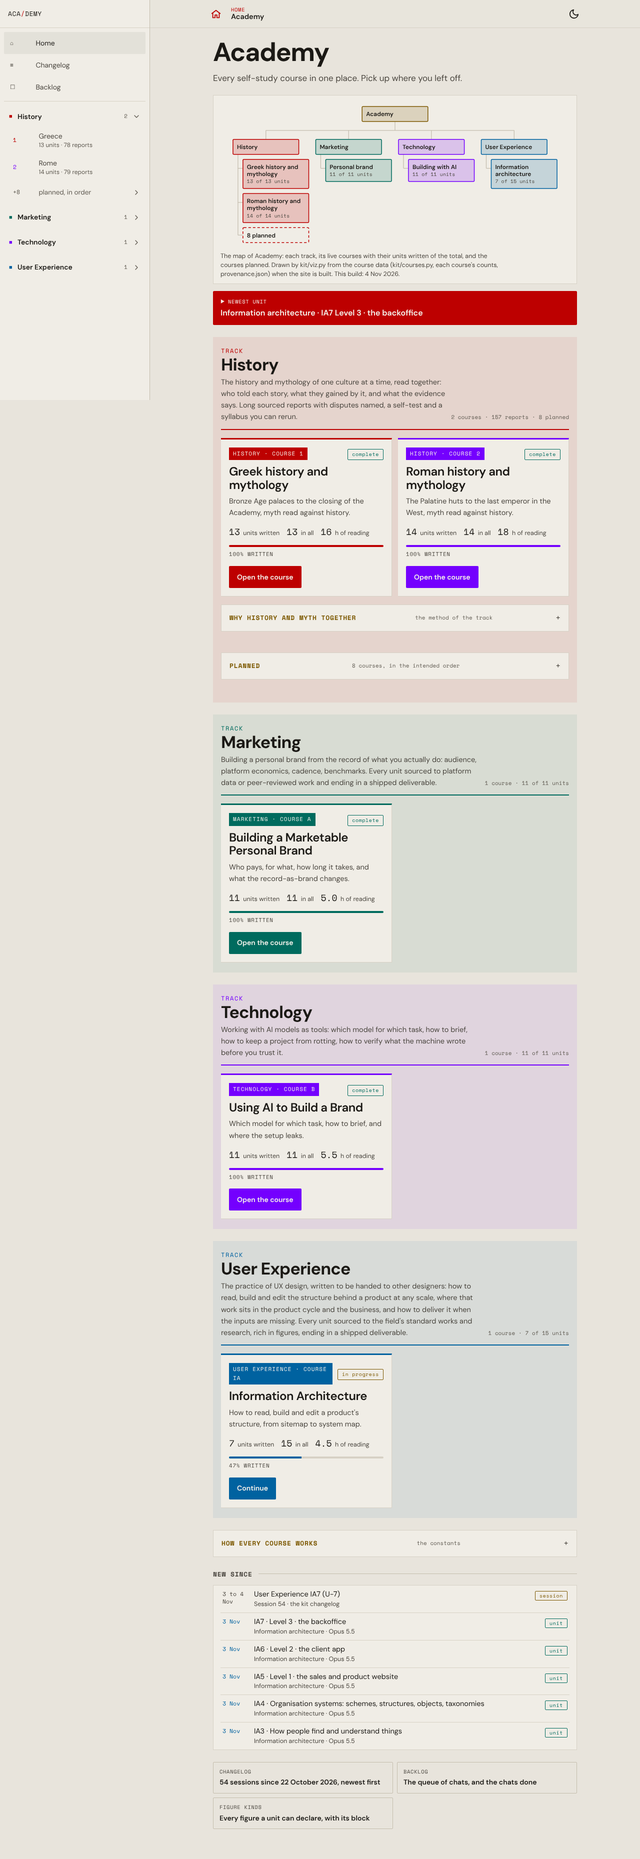
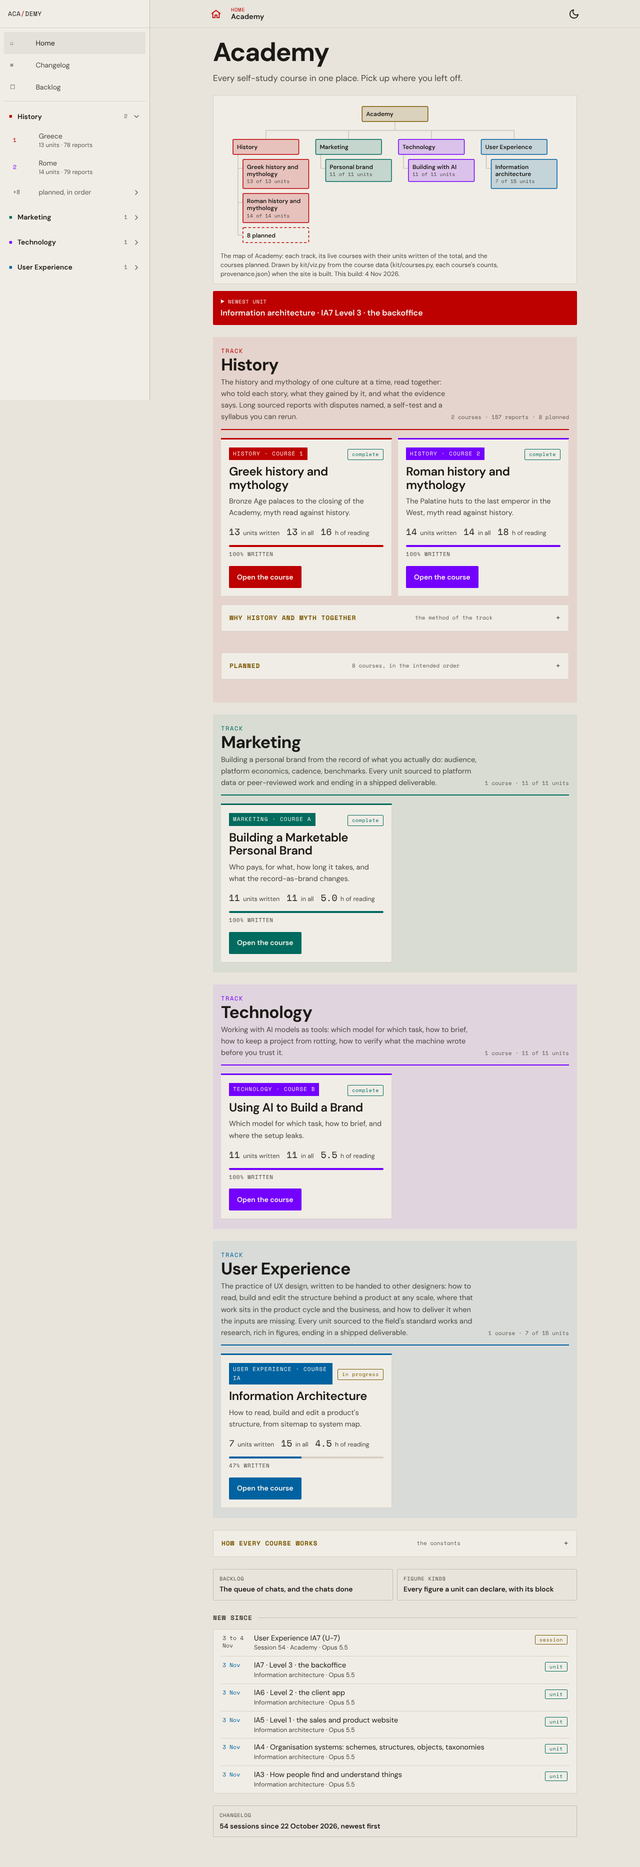
P90 step 5: map check 1 PASS; layout check 1 FIX applied (one link, to the changelog, under New since, Backlog and Figure kinds above it; home links wrap; the session row names Academy and its model; every card button reads Open the course); verify checks each; ALL CHECKS PASSED
Claude-Session: https://claude.ai/code/session_01KMmgQySGfYQ5jNL2NFJZLb

diff --git a/kit/academy/index.html b/kit/academy/index.html
@@ -385,6 +385,7 @@ details.course.soon .nspine span{font-family:var(--mono);font-size:10.5px;letter
 .hl-root .hbtn b{white-space:normal;font-size:16px;line-height:1.3;text-wrap:balance}
 .hl-root .hbtn span{opacity:1}
 .hl-root .hbtn span:first-child::before{content:"▶ ";font-size:9px;vertical-align:1px}
+.panel.root>.hlinks .hbtn b{white-space:normal;text-wrap:balance}   /* P90: the home's page links wrap on a phone, never cut short */
 /* a course card on the home: the one-sentence tile line, two lines at most */
 .panel.root .course.live p{display:-webkit-box;-webkit-box-orient:vertical;-webkit-line-clamp:2;line-clamp:2;overflow:hidden}
 /* new since: dated rows; the date column is wider than a module number; the changelog link under it */
@@ -878,7 +879,7 @@ details.acc[open]>summary::after{content:"–"}
     <p>How to read, build and edit a product&#x27;s structure, from sitemap to system map.</p>
     <div class="cstats"><span><b>7</b> units written</span><span><b>15</b> in all</span><span><b>4.5</b> h of reading</span></div>
     <div class="meter"><span class="bar" aria-hidden="true"><i style="width:47%"></i></span><span>47% written</span></div>
-    <span class="cgo">Continue</span>
+    <span class="cgo">Open the course</span>
   </a></div>
   </section>
 
@@ -892,12 +893,13 @@ details.acc[open]>summary::after{content:"–"}
       <li><strong>An open syllabus.</strong> Every prompt and brief is published with its course, so any unit can be regenerated, extended or checked.</li>
     </ol>
   </details>
+  <div class="hlinks"><a class="hbtn alt" href="#backlog" data-target="backlog"><span>Backlog</span><b>The queue of chats, and the chats done</b></a><a class="hbtn alt" href="#viz-examples" data-target="viz-examples"><span>Figure kinds</span><b>Every figure a unit can declare, with its block</b></a></div>
 
   <section class="recent">
     <h2 class="hsec">New since</h2>
-    <div class="hrows"><a class="hrow" href="#changelog" data-target="changelog"><span class="n">3 to 4 Nov</span><span class="t">User Experience IA7 (U-7)<small>Session 54 · the kit changelog</small></span><span class="pill prog">session</span></a><a class="hrow" href="#read-ia7" data-target="read-ia7" style="--c:var(--blue)"><span class="n">3 Nov</span><span class="t">IA7 · Level 3 · the backoffice<small>Information architecture · Opus 5.5</small></span><span class="pill live">unit</span></a><a class="hrow" href="#read-ia6" data-target="read-ia6" style="--c:var(--blue)"><span class="n">3 Nov</span><span class="t">IA6 · Level 2 · the client app<small>Information architecture · Opus 5.5</small></span><span class="pill live">unit</span></a><a class="hrow" href="#read-ia5" data-target="read-ia5" style="--c:var(--blue)"><span class="n">3 Nov</span><span class="t">IA5 · Level 1 · the sales and product website<small>Information architecture · Opus 5.5</small></span><span class="pill live">unit</span></a><a class="hrow" href="#read-ia4" data-target="read-ia4" style="--c:var(--blue)"><span class="n">3 Nov</span><span class="t">IA4 · Organisation systems: schemes, structures, objects, taxonomies<small>Information architecture · Opus 5.5</small></span><span class="pill live">unit</span></a><a class="hrow" href="#read-ia3" data-target="read-ia3" style="--c:var(--blue)"><span class="n">3 Nov</span><span class="t">IA3 · How people find and understand things<small>Information architecture · Opus 5.5</small></span><span class="pill live">unit</span></a></div>
+    <div class="hrows"><a class="hrow" href="#changelog" data-target="changelog"><span class="n">3 to 4 Nov</span><span class="t">User Experience IA7 (U-7)<small>Session 54 · Academy · Opus 5.5</small></span><span class="pill prog">session</span></a><a class="hrow" href="#read-ia7" data-target="read-ia7" style="--c:var(--blue)"><span class="n">3 Nov</span><span class="t">IA7 · Level 3 · the backoffice<small>Information architecture · Opus 5.5</small></span><span class="pill live">unit</span></a><a class="hrow" href="#read-ia6" data-target="read-ia6" style="--c:var(--blue)"><span class="n">3 Nov</span><span class="t">IA6 · Level 2 · the client app<small>Information architecture · Opus 5.5</small></span><span class="pill live">unit</span></a><a class="hrow" href="#read-ia5" data-target="read-ia5" style="--c:var(--blue)"><span class="n">3 Nov</span><span class="t">IA5 · Level 1 · the sales and product website<small>Information architecture · Opus 5.5</small></span><span class="pill live">unit</span></a><a class="hrow" href="#read-ia4" data-target="read-ia4" style="--c:var(--blue)"><span class="n">3 Nov</span><span class="t">IA4 · Organisation systems: schemes, structures, objects, taxonomies<small>Information architecture · Opus 5.5</small></span><span class="pill live">unit</span></a><a class="hrow" href="#read-ia3" data-target="read-ia3" style="--c:var(--blue)"><span class="n">3 Nov</span><span class="t">IA3 · How people find and understand things<small>Information architecture · Opus 5.5</small></span><span class="pill live">unit</span></a></div>
   </section>
-  <div class="hlinks"><a class="hbtn alt" href="#changelog" data-target="changelog"><span>Changelog</span><b>54 sessions since 22 October 2026, newest first</b></a><a class="hbtn alt" href="#backlog" data-target="backlog"><span>Backlog</span><b>The queue of chats, and the chats done</b></a><a class="hbtn alt" href="#viz-examples" data-target="viz-examples"><span>Figure kinds</span><b>Every figure a unit can declare, with its block</b></a></div>
+  <div class="hlinks" data-one><a class="hbtn alt" href="#changelog" data-target="changelog"><span>Changelog</span><b>54 sessions since 22 October 2026, newest first</b></a></div>
 </section>
 <section class="panel log" id="changelog" data-ctx="root" data-kind="changelog" data-t="Changelog" data-u="ACADEMY" data-c="var(--gold)" hidden>
   <header class="hero">

diff --git a/design/theme.css b/design/theme.css
@@ -380,6 +380,7 @@ details.course.soon .nspine span{font-family:var(--mono);font-size:10.5px;letter
 .hl-root .hbtn b{white-space:normal;font-size:16px;line-height:1.3;text-wrap:balance}
 .hl-root .hbtn span{opacity:1}
 .hl-root .hbtn span:first-child::before{content:"▶ ";font-size:9px;vertical-align:1px}
+.panel.root>.hlinks .hbtn b{white-space:normal;text-wrap:balance}   /* P90: the home's page links wrap on a phone, never cut short */
 /* a course card on the home: the one-sentence tile line, two lines at most */
 .panel.root .course.live p{display:-webkit-box;-webkit-box-orient:vertical;-webkit-line-clamp:2;line-clamp:2;overflow:hidden}
 /* new since: dated rows; the date column is wider than a module number; the changelog link under it */

diff --git a/kit/shell.css b/kit/shell.css
@@ -380,6 +380,7 @@ details.course.soon .nspine span{font-family:var(--mono);font-size:10.5px;letter
 .hl-root .hbtn b{white-space:normal;font-size:16px;line-height:1.3;text-wrap:balance}
 .hl-root .hbtn span{opacity:1}
 .hl-root .hbtn span:first-child::before{content:"▶ ";font-size:9px;vertical-align:1px}
+.panel.root>.hlinks .hbtn b{white-space:normal;text-wrap:balance}   /* P90: the home's page links wrap on a phone, never cut short */
 /* a course card on the home: the one-sentence tile line, two lines at most */
 .panel.root .course.live p{display:-webkit-box;-webkit-box-orient:vertical;-webkit-line-clamp:2;line-clamp:2;overflow:hidden}
 /* new since: dated rows; the date column is wider than a module number; the changelog link under it */

diff --git a/kit/build.py b/kit/build.py
@@ -344,7 +344,7 @@ def card(theme, color, short, title, blurb, done, total, words, status, href, ex
             f'<span><b>{hours(words)}</b> h of reading</span>')
     pct = round(100 * done / total) if total else 0
     pill = '<span class="pill live">complete</span>' if status == 'available' else f'<span class="pill prog">{status}</span>'
-    label = 'Continue' if status == 'in progress' else ('Open the syllabus' if status == 'coming soon' else 'Open the course')
+    label = 'Open the syllabus' if status == 'coming soon' else 'Open the course'   # P90: "Continue" is the hero's button only
     tgt = '' if external else f' data-target="{href[1:]}"'
     return f'''<a class="course live" href="{href}"{tgt} style="--c:{color}">
     <div class="ctop"><span class="cname">{html.escape(theme)} · {html.escape(short)}</span>{pill}</div>
@@ -607,10 +607,13 @@ changelog = f"""
   <h2 class="hsec">Sessions, newest first</h2>
   <div class="clogs">{cl_cards}</div>
 </section>"""
-cl_link = ''.join(([] if 'changelog' in OMIT else [f'<a class="hbtn alt" href="#changelog" data-target="changelog"><span>Changelog</span><b>{len(cl_sessions)} sessions {cl_since}, newest first</b></a>'])
-                  + ([] if 'backlog' in OMIT else [f'<a class="hbtn alt" href="#backlog" data-target="backlog"><span>Backlog</span><b>The queue of chats, and the chats done</b></a>'])
+cl_link = ''.join([] if 'changelog' in OMIT else [f'<a class="hbtn alt" href="#changelog" data-target="changelog"><span>Changelog</span><b>{len(cl_sessions)} sessions {cl_since}, newest first</b></a>'])
+# P90: the home's other site pages (the backlog; the figure kinds, which has no drawer row) sit above New since, so the
+# changelog's is the one link under it
+site_links = ''.join(([] if 'backlog' in OMIT else [f'<a class="hbtn alt" href="#backlog" data-target="backlog"><span>Backlog</span><b>The queue of chats, and the chats done</b></a>'])
                   + ([] if 'figures' in OMIT else [f'<a class="hbtn alt" href="#viz-examples" data-target="viz-examples"><span>Figure kinds</span><b>Every figure a unit can declare, with its block</b></a>']))
-cl_link = f'<div class="hlinks">{cl_link}</div>' if cl_link else ''
+site_links = f'<div class="hlinks">{site_links}</div>' if site_links else ''
+cl_link = f'<div class="hlinks" data-one>{cl_link}</div>' if cl_link else ''
 
 # the backlog page: docs/BACKLOG.md (the queue) and docs/CHANGELOG.md (the chats done), rendered as they are
 def md_sections(path):
@@ -730,7 +733,11 @@ _nrows = 0
 if cl_sessions and 'changelog' not in OMIT:
     _head = cl_sessions[0][0].split(' · ')
     _date, _sess, _title = (_head + ['', ''])[:3]
-    recent_rows += f'<a class="hrow" href="#changelog" data-target="changelog"><span class="n">{html.escape(re.sub(r'(\w{3})\w* \d{4}$', r'\1', _date))}</span><span class="t">{md_inline(_title)}<small>{html.escape(_sess)} · the kit changelog</small></span><span class="pill prog">session</span></a>'
+    # P90: the session row's second line names its track and model as a unit row's does: Academy, and the model the
+    # session's entry says it ran on (its first "on <model>")
+    _m = re.search(r'\bon ((?:Opus|Fable|Sonnet|Haiku) \d+(?:\.\d+)?)\b', ' '.join(cl_sessions[0][1]))
+    _sess = f'{_sess} · Academy' + (f' · {_m.group(1)}' if _m else '')
+    recent_rows += f'<a class="hrow" href="#changelog" data-target="changelog"><span class="n">{html.escape(re.sub(r'(\w{3})\w* \d{4}$', r'\1', _date))}</span><span class="t">{md_inline(_title)}<small>{html.escape(_sess)}</small></span><span class="pill prog">session</span></a>'
     _nrows = 1
 for d, short, col, code, title, pid, model in RECENT[:6 - _nrows]:
     recent_rows += f'<a class="hrow" href="#{pid}" data-target="{pid}" style="--c:{col}"><span class="n">{short_date(d).replace(" 2026", "")}</span><span class="t">{html.escape(code)} · {html.escape(title)}<small>{html.escape(short)}{" · " + html.escape(model) if model else ""}</small></span><span class="pill live">unit</span></a>'
@@ -763,6 +770,7 @@ roothome = f"""
 {RULES}
     </ol>
   </details>
+  {site_links}
 {f'''
   <section class="recent">
     <h2 class="hsec">New since</h2>

diff --git a/kit/verify.py b/kit/verify.py
@@ -234,8 +234,10 @@ HOME_JS = r'''(phone) => {
     const u = [...rows].find(r => r.querySelector('.pill.live'));
     out.newest = u ? u.getAttribute('data-target') : null;
     const nx = rec.nextElementSibling, cl = nx && nx.querySelectorAll('a[href="#changelog"]');
-    if (!nx || nx !== kids[kids.length - 1] || !cl || cl.length !== 1) bad.push('New since is not followed, last on the page, by its one link to the changelog');
+    if (!nx || nx !== kids[kids.length - 1] || !cl || cl.length !== 1 || nx.querySelectorAll('a').length !== 1) bad.push('New since is not followed, last on the page, by one link, to the changelog');
+    [...rows].forEach(r => { if (!r.querySelector('.t small') || !r.querySelector('.pill') || !r.querySelector('.n')) bad.push('a New since row without its date, its track and model line or its pill'); });
   }
+  h.querySelectorAll('.hbtn b, .hbtn span').forEach(el => { if (el.getBoundingClientRect().width > 0 && el.scrollWidth > el.clientWidth + 1) bad.push(`a button's text is cut short: "${el.textContent.trim().slice(0, 40)}"`); });
   out.order = kids.map(e => e.tagName.toLowerCase() + '.' + [...e.classList].join('.')).join(' ');
   const cards = [...h.querySelectorAll('.track .cgrid > a.course.live')];
   out.cards = cards.length;

diff --git a/design/README.md b/design/README.md
@@ -1,6 +1,6 @@
 # design/
 
-**Version 6, 1 November 2026** (section 9, the reading layout, P68: every unit and report opens on its one-line scope and reads one section at a time under a sticky bar with "Section n of N", the section menu, a progress bar and a "Whole unit" toggle; each h2 is a full-width numbered band; Sources and "How this unit was made" are closed accordions after the text). Versions 4 to 5.4 are in the theme's header. **Version 3, 28 October 2026** (section 7, interaction: hover and pressed states on every clickable thing where a pointer can hover, transitions that respect reduced motion, and equal-height catalogue cards with the button on one line). Version 2, the same day, added section 6 (responsive: tablet from 768 px, desktop from 1100 px; the phone layout is version 1's, unchanged). Version 1 was the extraction of 27 October 2026.
+**Version 6.3, 4 November 2026** (P90: the light palette is e-ink paper, a warm grey-cream page with cards barely lighter, near-black ink and no pure white anywhere, its accents at full saturation in their house hues as far as 4.5:1 allows, measured by `kit/contrast.py` and checked on the built page by `kit/verify.py`; section 4h is the new Academy home, its hero carrying the map of Academy and the Continue button; 4i adds the sitemap's dashed and linked boxes). **Version 6, 1 November 2026** (section 9, the reading layout, P68: every unit and report opens on its one-line scope and reads one section at a time under a sticky bar with "Section n of N", the section menu, a progress bar and a "Whole unit" toggle; each h2 is a full-width numbered band; Sources and "How this unit was made" are closed accordions after the text). Versions 4 to 5.4 are in the theme's header. **Version 3, 28 October 2026** (section 7, interaction: hover and pressed states on every clickable thing where a pointer can hover, transitions that respect reduced motion, and equal-height catalogue cards with the button on one line). Version 2, the same day, added section 6 (responsive: tablet from 768 px, desktop from 1100 px; the phone layout is version 1's, unchanged). Version 1 was the extraction of 27 October 2026.
 
 `theme.css` is the only place style is defined in the Learning Project. It is the Personal Mythology visual system (the history site's `shell.css` of 27 October 2026), with three fixes and the few components the hubs need that the history pages lack. Every page in the Project is built from it; no page carries its own stylesheet.
 
@@ -21,7 +21,7 @@ A published claude.ai artifact cannot load an external stylesheet. So the genera
 | Section | Holds |
 |---|---|
 | 0 Fonts | DM Sans (text), Space Mono (labels, codes), Gentium Book Plus (Greek and Latin display words), from Google Fonts |
-| 1 Tokens | Dark (default) and the light palette, which is defined twice (system setting and toggle) and must stay identical in both places |
+| 1 Tokens | Dark (default) and the light palette (e-ink paper since 6.3), which is defined twice (system setting and toggle) and must stay identical in both places |
 | 2 Base and type | Body, links, inline `code` |
 | 3 Layout | Fixed frosted top bar (`.top`, `.ib`, `.cur`), slide-out drawer (`.drawer`, `.dlist`, `.ditem`, `.dunit`, `.dsec`), 700 px reading column, panel rhythm (`.panel.root/.home/.syl/.log/.stack`) |
 | 4 Components (history) | Report (`.report`, `.toc`, `.dispute`, `.quiz`, `.carry`, `.prompt`, `.pager`, `.tbl`), home (`.hero`, `.lede`, `.stats`, `.howto`, `.ucard`, `.hrow`, `.pill`), syllabus (`.smod`, `.pbox`, `.copy`, `.rlink`, `.hbtn`), era ribbon, rule blocks and parts, root home (`.course`, `.ml`), changelog (`.clog`) |
@@ -32,23 +32,23 @@ A published claude.ai artifact cannot load an external stylesheet. So the genera
 
 | Token | Dark | Light | Role |
 |---|---|---|---|
-| `--bg` | `#0a0a0c` | `#f5f5f7` | page |
-| `--card` | `#131316` | `#ffffff` | cards, drawer |
-| `--line` / `--line-2` | `#1e1e24` / `#2a2a32` | `#e3e3ea` / `#cfcfd9` | borders |
-| `--fg` / `--muted` / `--dim` | `#ececf1` / `#9a9aa6` / `#6b6b78` | `#17171c` / `#50505b` / `#6c6c78` | text, secondary, tertiary |
-| `--red` | `#ff6b6b` | `#c23b3b` | Greece, Learn, disputes |
-| `--purple` | `#9b5de5` | `#7a3fcf` | Rome, course B |
-| `--orange` | `#f4a261` | `#a3580f` | Build, "unchecked" |
-| `--teal` | `#2a9d8f` | `#1b7569` | links, course A, "written" |
-| `--blue` | `#457b9d` | `#3a6a8a` | goals, "next" |
-| `--gold` | `#e9c46a` | `#7f6308` | deep dives, labels, audits |
-| `--on-accent` | `#0a0a0c` | `#ffffff` | text on a filled accent button |
+| `--bg` | `#0a0a0c` | `#e8e4dc` | page (light: e-ink paper, a warm grey-cream) |
+| `--card` | `#131316` | `#f0ede6` | cards, drawer (light: barely lighter than the paper) |
+| `--line` / `--line-2` | `#1e1e24` / `#2a2a32` | `#d7d1c5` / `#c4bdae` | borders (light: a shade darker than the paper) |
+| `--fg` / `--muted` / `--dim` | `#ececf1` / `#9a9aa6` / `#6b6b78` | `#1b1915` / `#4a463f` / `#5e5950` | text, secondary, tertiary (light: warm near-black and warm greys) |
+| `--red` | `#ff6b6b` | `#bd0000` | Greece, Learn, disputes |
+| `--purple` | `#9b5de5` | `#7400fe` | Rome, course B |
+| `--orange` | `#f4a261` | `#9c4500` | Build, "unchecked" |
+| `--teal` | `#2a9d8f` | `#006b5e` | links, course A, "written" |
+| `--blue` | `#457b9d` | `#0062a0` | goals, "next" |
+| `--gold` | `#e9c46a` | `#7c5800` | deep dives, labels, audits |
+| `--on-accent` | `#0a0a0c` | `#f5f2eb` | text on a filled accent button (light: cream, not white) |
 
-Dark accents are the house palette and do not change. No grey is a dominant accent.
+Dark accents are the house palette and do not change. No grey is a dominant accent. The light accents (6.3, P90, Pedro 4 Nov 2026: e-ink, bright accents within contrast) keep each house hue at 100% saturation and take the highest lightness that holds 4.6:1 on the darkest surface the accent is text on, its own track band (7% of it over the paper); `kit/contrast.py` prints every pair (the accent on the paper, on a card, cream text on the accent, the eyebrow's `.u`, the accent on its band), before and after in `kit/reviews/p90/`. In light a filled button's label (`.hbtn span`) is at full opacity, since at .85 it measured 4.49:1 on red and purple. No pure white is used anywhere in light mode.
 
 ## Figures
 
-`kit/viz.py` draws a declared figure (timeline, compare, tree, flow; since V1 sitemap, objects, decision, matrix, states, swimlanes, wireflow; Academy's Figure kinds page shows each) as inline SVG with classes only; section 4i of the theme gives every class its fill and stroke from the tokens, so a figure follows the theme like any text. A page never styles a figure; a new kind is a function in `viz.py` plus its classes in 4i. The house accents are reachable as tones 1 to 6 (`--viz-1` … `--viz-6`).
+`kit/viz.py` draws a declared figure (timeline, compare, tree, flow; since V1 sitemap, objects, decision, matrix, states, swimlanes, wireflow; Academy's Figure kinds page shows each) as inline SVG with classes only; section 4i of the theme gives every class its fill and stroke from the tokens, so a figure follows the theme like any text. Since P90 a sitemap node may carry `href` (a panel id: its box is an `<a class="viz-a">` with `data-target`, as the drawer's links are, which `shell.js` follows) and `dashed` (a dashed, untinted box, `.viz-dash`: a planned page), and the block may carry `phone` (`{"stack_from": 1}`: a second drawing of the same root as wide as the phone frame, `svg.viz-alt`, shown below 768 px in place of the wide one). The Academy home's map is such a figure, declared by `build.py` from the course data. A page never styles a figure; a new kind is a function in `viz.py` plus its classes in 4i. The house accents are reachable as tones 1 to 6 (`--viz-1` … `--viz-6`).
 
 ## Rules for pages
 
@@ -70,6 +70,6 @@ Checked on 27 October 2026 with Chromium at 400 px, dark and light, every panel 
 
 ## Checks before republishing
 
-At 390 or 400 px, 768 px and 1280 px wide, in dark and in light, on every page with every `<details>` open: the document is not wider than the viewport; no two boxed elements are closer than 6 px; no button, summary or block link is under 44 px tall; no console error; on the tablet the drawer is off screen until the menu button and 360 px with a backdrop when open; on the desktop it is a 300 px sidebar at the left, the content column starts beside it, the top bar spans the column, the current page is highlighted and report text keeps its 68ch measure; text tokens keep at least 4.5:1 against `--bg` and `--card`. `python3 generator/check_page.py generator/hubs/<page>.html` (hubs) and `python3 kit/verify.py` (Academy) measure all but the contrast for every panel at every width in both themes and end with ALL CHECKS PASSED or FAIL (Playwright with Chromium); `--shots DIR` saves the three widths.
+At 390 or 400 px, 768 px and 1280 px wide, in dark and in light, on every page with every `<details>` open: the document is not wider than the viewport; no two boxed elements are closer than 6 px; no button, summary or block link is under 44 px tall; no console error; on the tablet the drawer is off screen until the menu button and 360 px with a backdrop when open; on the desktop it is a 300 px sidebar at the left, the content column starts beside it, the top bar spans the column, the current page is highlighted and report text keeps its 68ch measure; text tokens keep at least 4.5:1 against `--bg` and `--card`. `python3 generator/check_page.py generator/hubs/<page>.html` (hubs) and `python3 kit/verify.py` (Academy) measure all of it for every panel at every width in both themes (`verify.py` measures contrast since P90: every text of the home, the drawer, the changelog, the backlog, each course home and one reading page per course in the light theme, against the background it actually sits on) and end with ALL CHECKS PASSED or FAIL (Playwright with Chromium); `--shots DIR` saves the three widths.
 
 The responsive rules (section 6) add no component and change no token: a breakpoint only widens the column, puts cards side by side or pins the drawer open. Phone layout is checked against the previous build's panel count and tightest gap before and after any theme change (28 October 2026: 144 panels, 6 px, unchanged).

diff --git a/kit/reviews/p90/layout-check-1.md b/kit/reviews/p90/layout-check-1.md
@@ -1,0 +1,42 @@
+## Findings
+1. **All six shots, the end of the page (phone part07–08, tablet part06, desktop part03): three links under New since, not one.** Under "New since" there are three link boxes: CHANGELOG ("54 sessions since 22 October 2026, newest first"), BACKLOG ("The queue of chats, and the chats done") and FIGURE KINDS ("Every figure a unit can declare, with its block"). Rule 4 asks for one link, to the full changelog. The Backlog and Figure kinds boxes should go.
+2. **Phone dark and phone light, part08: link text cut off.** On the phone the text in those boxes is cut short with an ellipsis: "54 sessions since 22…", "The queue of chats, …", "Every figure a unit c…". This breaks rule 6 (nothing cut). Fixing finding 1 leaves only the changelog box, but its text still needs to fit or wrap.
+3. **All six shots, the first New since row: no track and model line.** The first row (date "3 to 4 Nov", item "User Experience IA7 (U-7)", pill "session") has the second line "Session 54 · the kit changelog". Rule 4 asks for a track and model line on every row. The other five rows have one ("Information architecture · Opus 5.5"). This is minor, but the rule says "each".
+
+## Confirmed
+- **Order (rules 1–4), all 6 shots:** the hero (headline "Academy", the lede word for word, the map card with its caption ending "This build: 4 Nov 2026."), then the Continue button, then History, Marketing, Technology and User Experience, then "How every course works", then New since, then the link boxes. All four track sections have their coloured header (TRACK label, title, lede, meta line, coloured rule).
+- **No eyebrow above the headline, all 6:** none. The only thing above the headline is "HOME / Academy" in the top bar, which is not under review.
+- **No resume card, no "Start here", no track tiles, all 6:** none of them seen anywhere.
+- **Continue button in the hero, all 6:** it sits straight under the map card. It reads "▶ NEWEST UNIT" and then "Information architecture · IA7 Level 3 · the backoffice". It is coral with dark text in dark mode, red with light text in light mode. Nothing else comes between it and the map.
+- **One card style, all 6:** every card has the same layout: coloured top bar, course chip, status pill, title, blurb, stat row, progress bar with "% WRITTEN", one button.
+- **Card count:** 5 cards in every shot (Greek, Roman, Building a Marketable Personal Brand, Using AI to Build a Brand, Information Architecture).
+- **Exactly three stats, no reports or words count, all 6:** every card shows "N units written · N in all · N h of reading": Greek 13/13/16, Roman 14/14/18, Brand 11/11/5.0, Using AI 11/11/5.5, IA 7/15/4.5. No card shows reports or words.
+- **Blurbs, all 6:** each blurb is one sentence on two lines at every width, with no ellipsis and no clipped line.
+- **Columns:**
+  - Phone dark and light: one column.
+  - Tablet dark and light: two columns. Greek and Roman sit side by side. Marketing, Technology and UX each have one half-width card with the right half empty.
+  - Desktop dark and light: the same as the tablet.
+- **Fold-outs inside History, all 6:** "Why history and myth together" and "Planned" (8 courses) both sit inside the History panel, below its cards.
+- **New since, all 6:** "How every course works" comes first, then New since at the bottom. Every shot has 6 rows: the session row, then IA7, IA6, IA5, IA4 and IA3, each with a date, an item and a pill. No totals line at the very bottom.
+- **Light theme (phone, tablet, desktop):**
+  - The page is a warm grey-cream.
+  - Cards and the map card are a slightly lighter cream.
+  - Track panels carry soft tints (rose, sage, lilac, grey).
+  - Borders and lines are a shade darker than the paper.
+  - Text is near-black.
+  - Accents (red, teal, violet, blue, ochre) are bright and readable.
+  - No white surface anywhere.
+- **Edges, overlap, legibility (rule 6):** nothing overlaps and nothing runs off the side, with no sign of sideways scrolling at any width. All text is readable apart from finding 2.
+
+## Renderer notes
+- Light theme, text on buttons: the text on the red Continue button, the "Open the course" buttons and the filled course chips looks very light. By eye I cannot tell pure white from a pale cream on a saturated background. A pixel sample would settle it against rule 5.
+- Each track header has a meta line: History "2 courses · 157 reports · 8 planned"; the others "1 course · N of N units". This is not on a card and not at the bottom, so it breaks no rule. But the History line shows a reports count, which the reader may not want, given the card rule.
+- The Roman card uses violet as its accent, the same colour as the Technology track, while Greek uses the History red. Same card style, so not a fault, but the colours don't map one-to-one to tracks.
+- The IA card's button reads "Continue" and the other cards' read "Open the course". The hero also has a Continue button, so the label appears twice on the page.
+- The chip "USER EXPERIENCE · COURSE IA" wraps to two lines on all three widths. It is not cut.
+- The date "3 to 4 Nov" wraps to two lines in the first New since row at all widths.
+- Desktop: the sidebar panel ends at about y=800 and plain page colour runs below it. The sidebar is not under review.
+- Each card's top accent bar ends in a small slanted corner at the right, and it sits just under the track's own coloured rule, so two coloured lines stack.
+
+## Verdict
+FIX

diff --git a/kit/reviews/p90/map-check-1.md b/kit/reviews/p90/map-check-1.md
@@ -1,0 +1,66 @@
+## Findings
+None.
+
+## Confirmed
+**Sources used:** rules.md, data.md, figure.html, and all eight PNGs: phone dark and light (part01 and part02 of each), tablet dark and light, desktop dark and light.
+
+**Boxes in the wide svg (viewBox 700 x 289)** each match data.md:
+- **Root:** "Academy", class viz-t6 (gold), as data.md says.
+- **Tracks, in courses.py order:**
+  - History, viz-t1 (red)
+  - Marketing, viz-t3 (teal)
+  - Technology, viz-t5 (purple)
+  - User Experience, viz-t4 (blue)
+  
+  Each track tone matches data.md and the colours in rules.md.
+- **History courses (viz-t1):**
+  - "Greek history and" / "mythology", with "13 of 13 units" (13 of 13 in the data)
+  - "Roman history and" / "mythology", with "14 of 14 units" (14 of 14)
+- **Planned box under History:** "8 planned", classes viz-t1 and viz-dash. data.md lists 8 planned courses (Egypt to Japan), all in History.
+- **Marketing course:** "Personal brand", "11 of 11 units", viz-t3 (11 of 11).
+- **Technology course:** "Building with AI", "11 of 11 units", viz-t5 (11 of 11).
+- **User Experience course:** "Information" / "architecture", "7 of 15 units", viz-t4 (7 of 15, in progress).
+- **Nothing extra.** There are no other boxes. data.md lists 0 "coming soon" courses, and none is drawn. No planned box appears under a track that has no planned courses.
+- **Geometry:** every box lies inside the viewBox (x from 25 to 675 of 700; lowest edge at 281 of 289). The connector lines meet the centres of the root and track boxes (x 350; 91, 257, 423, 589). The History trunk at x 35 reaches the Greek box (y 132), the Rome box (200.5) and the planned box (266).
+
+**Boxes in the phone svg (svg.viz-alt, viewBox 328 x 518.5)** are the same 1 root, 4 tracks, 5 courses and 1 planned box:
+- The tones, names and counts are identical to the wide drawing.
+- Course names sit on one line here (for example "Greek history and mythology").
+- Boxes reach x 320 of 328 at most; the lowest edge is at 510.5 of 518.5.
+- The trunk at x 18 meets the middle of each track box (y 63, 252, 346.5, 441). The branch lines at x 38 reach every course box and the planned box.
+
+**Links:** five `<a class="viz-a">` in each svg, and href equals data-target in every one:
+- Greek history and mythology goes to #greece / greece.
+- Roman history and mythology goes to #rome / rome.
+- Personal brand goes to #brand-a / brand-a.
+- Building with AI goes to #brand-b / brand-b.
+- Information architecture goes to #ux-ia / ux-ia.
+
+All five ids are in data.md's list of panel ids. Each aria-label matches the course name. The root, the four track boxes and the planned box have no link in either svg, which is what rules.md asks for (it names links only on course boxes).
+
+**Legibility, phone (390 px), dark and light:**
+- One frame, "frame 1 of 1 (the whole figure fits)", and the phone drawing is shown.
+- Every box sits inside the frame with a right margin, and there is no sideways overflow.
+- Every label and count is whole and readable. Nothing overlaps or is cut.
+- The planned box is clearly dashed in red in both themes.
+- Track colours read as red, teal, purple and blue, with the root in gold.
+- The caption runs on across the part01/part02 boundary of the sheet. Read together, the two parts give it whole, ending "This build: 4 Nov 2026."
+
+**Legibility, tablet (768 px) and desktop (1280 px), dark and light:**
+- One frame each, "the whole figure fits", and the wide drawing is shown.
+- All four tracks sit in a row with their courses below.
+- The two-line labels ("Greek history and / mythology", "Roman history and / mythology", "Information / architecture") wrap inside their boxes.
+- "User Experience" fits its box. All counts are readable.
+- The dashed planned box is clearly dashed. Nothing is cut or overlapping, and the colours are as rules.md says in both themes.
+
+**Caption:** "Drawn by kit/viz.py from the course data (kit/courses.py, each course's counts, provenance.json) when the site is built. This build: 4 Nov 2026." It says the map is drawn from the course data at build time and dates the build. The date matches data.md (4 Nov 2026).
+
+## Renderer notes
+- On the desktop frames (1x), the "N of M units" lines are set small in a monospace face. They are readable on the sheet but are the smallest text in the figure.
+- In dark mode the connector lines are low-contrast (faint grey on near-black). They are still visible. Rules.md sets nothing for the lines.
+- The phone drawing's track boxes end further left (x 300) than its course boxes (x 320). This is a stepped layout, not a fault.
+- Both svgs carry the generic aria-label "sitemap". The wrapper has an empty data-alt attribute, and the wide svg carries data-x0="17". None of these shows in the render.
+- On the course boxes, the connector meets the first text line rather than the vertical middle of the box. This is consistent across the figure.
+
+## Verdict
+PASS
